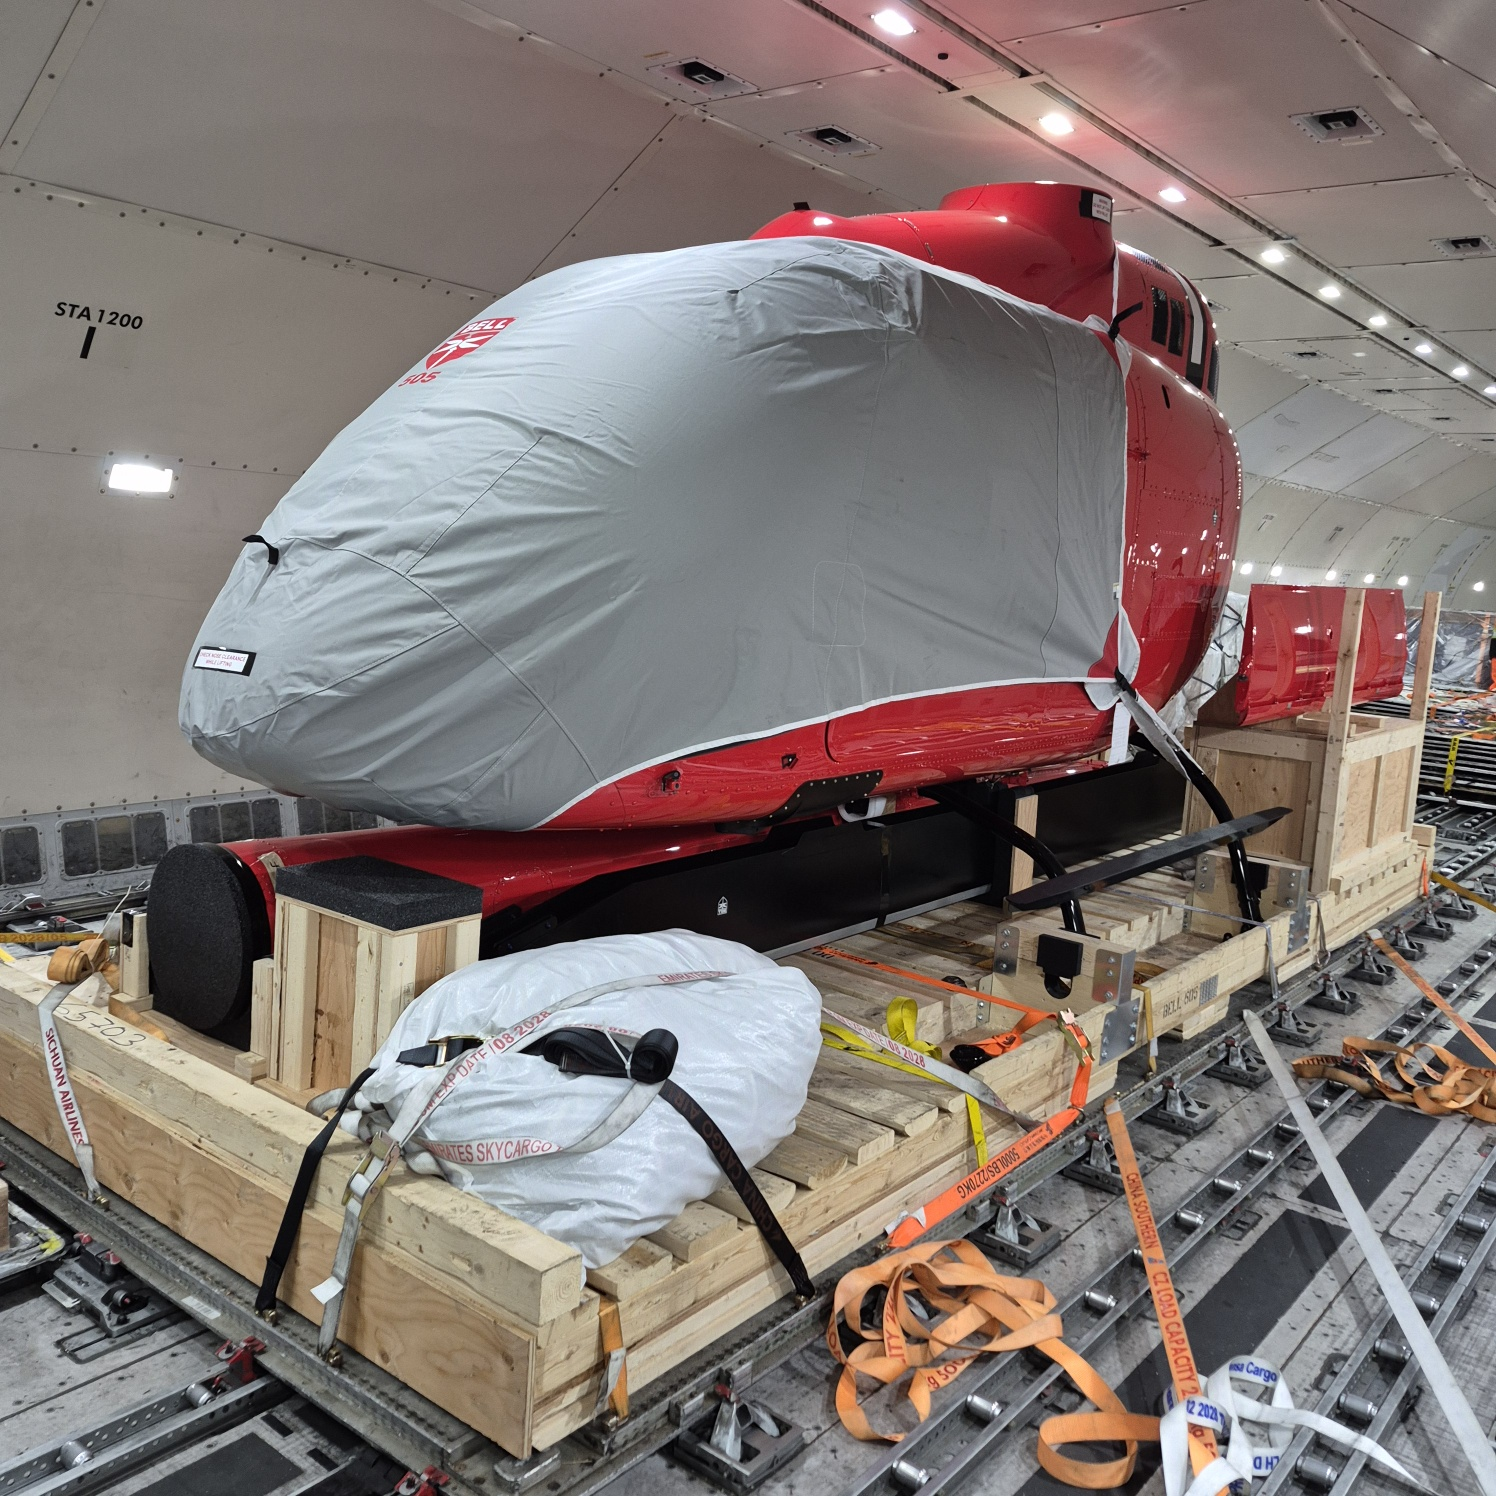
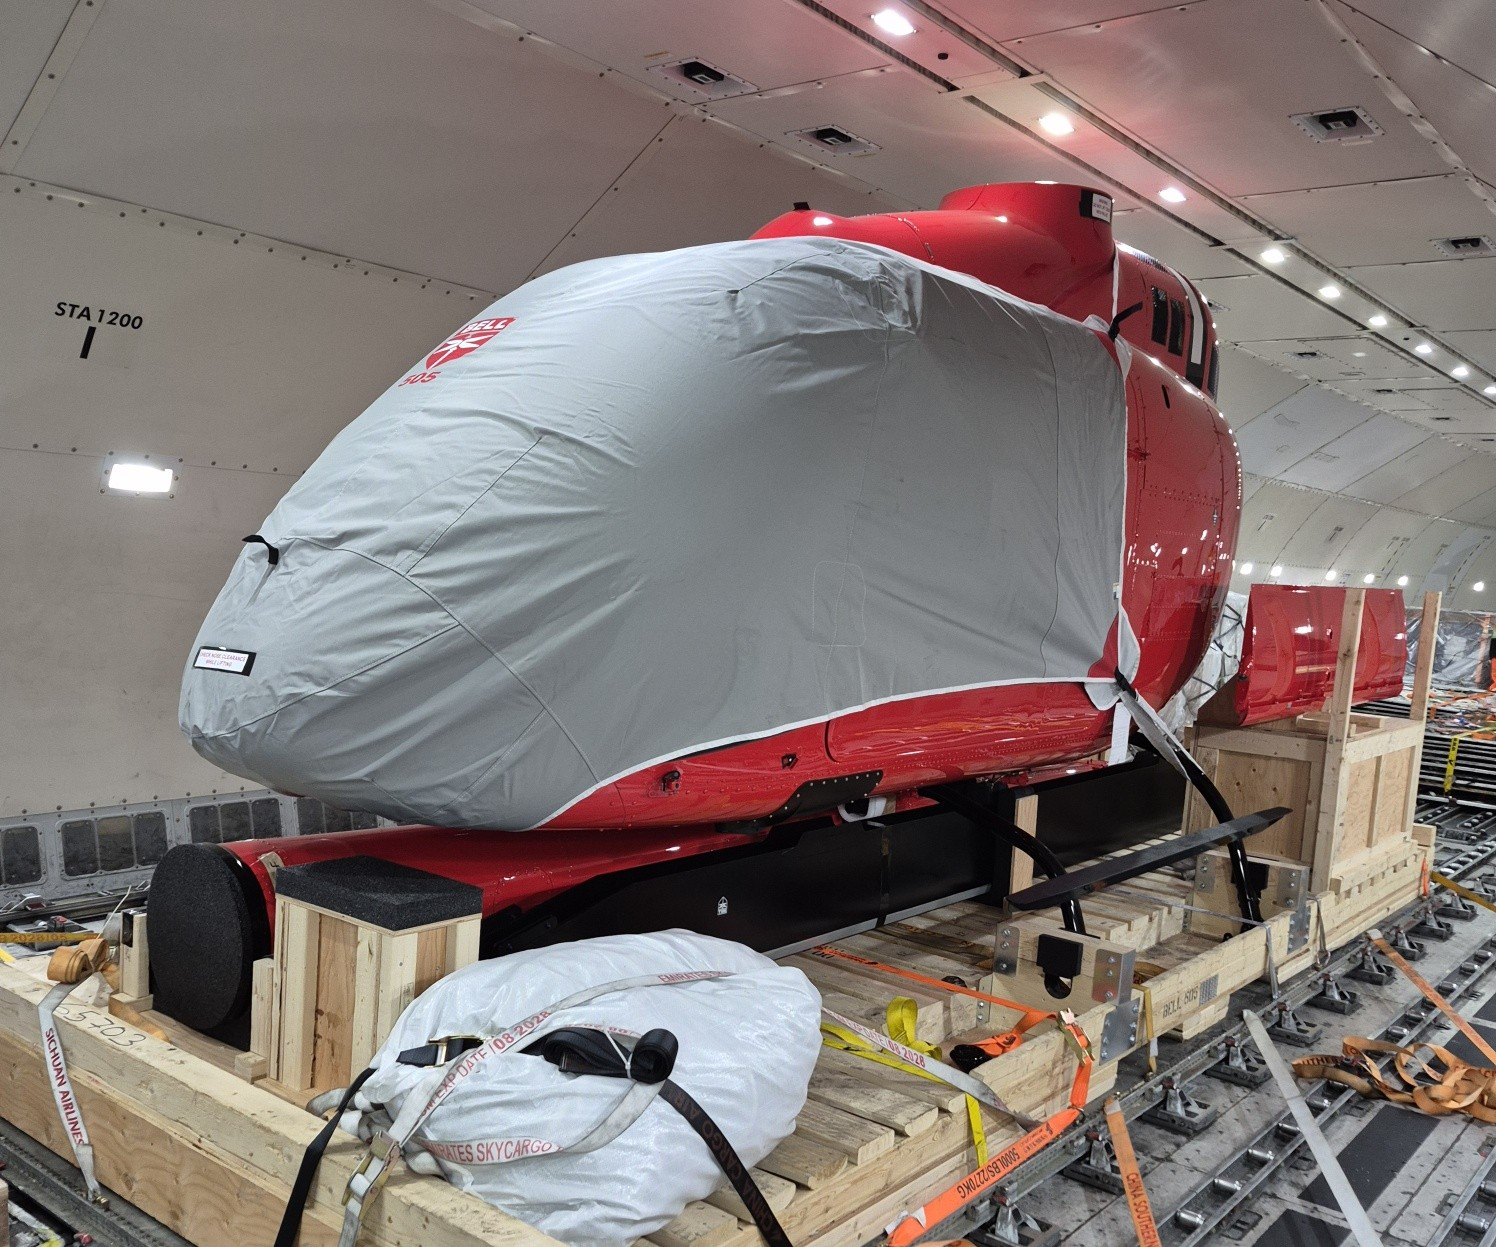
change the cargo picture

diff --git a/styles.css b/styles.css
@@ -734,6 +734,7 @@ body.editing [contenteditable]:focus{outline:2px solid var(--ink);background:rgb
 .photo-slot figcaption{position:absolute;z-index:2;right:18px;bottom:18px;padding:8px 10px;background:var(--ink);font-family:var(--mono);font-size:15px;line-height:1;letter-spacing:.06em;color:var(--paper);}
 .photo-slot--contain img{object-fit:contain;padding:24px;}
 .photo-slot--contain::before{border-color:rgba(31,43,224,.18);}
+.photo-slot--military img{padding:16px;}
 
 .flow-skeleton{display:grid;grid-template-columns:1.1fr 1fr 1fr 1fr 1.1fr;gap:14px;align-items:stretch;margin-top:16px;}
 .flow-zone,.flow-node{position:relative;display:flex;flex-direction:column;justify-content:center;min-height:260px;padding:25px 22px;border:1.5px solid var(--ink);background:rgba(255,255,255,.38);}

diff --git a/pinetree-deck.html b/pinetree-deck.html
@@ -111,8 +111,8 @@
               <img src="PAGER-2.jpg" alt="항공 화물로 운송되는 헬리콥터">
               <figcaption>PROJECT CARGO</figcaption>
             </figure>
-            <figure class="visual-slot visual-slot--landscape photo-slot" aria-label="군수 물자 크레인 작업 사진">
-              <img src="PAGE4-3.png" alt="크레인으로 옮기는 군수 물자">
+            <figure class="visual-slot visual-slot--landscape photo-slot photo-slot--contain photo-slot--military" aria-label="군수 물자 크레인 작업 사진">
+              <img src="PAGE4-3.jpg" alt="크레인으로 옮기는 군수 물자">
               <figcaption>MILITARY CARGO</figcaption>
             </figure>
           </div>
